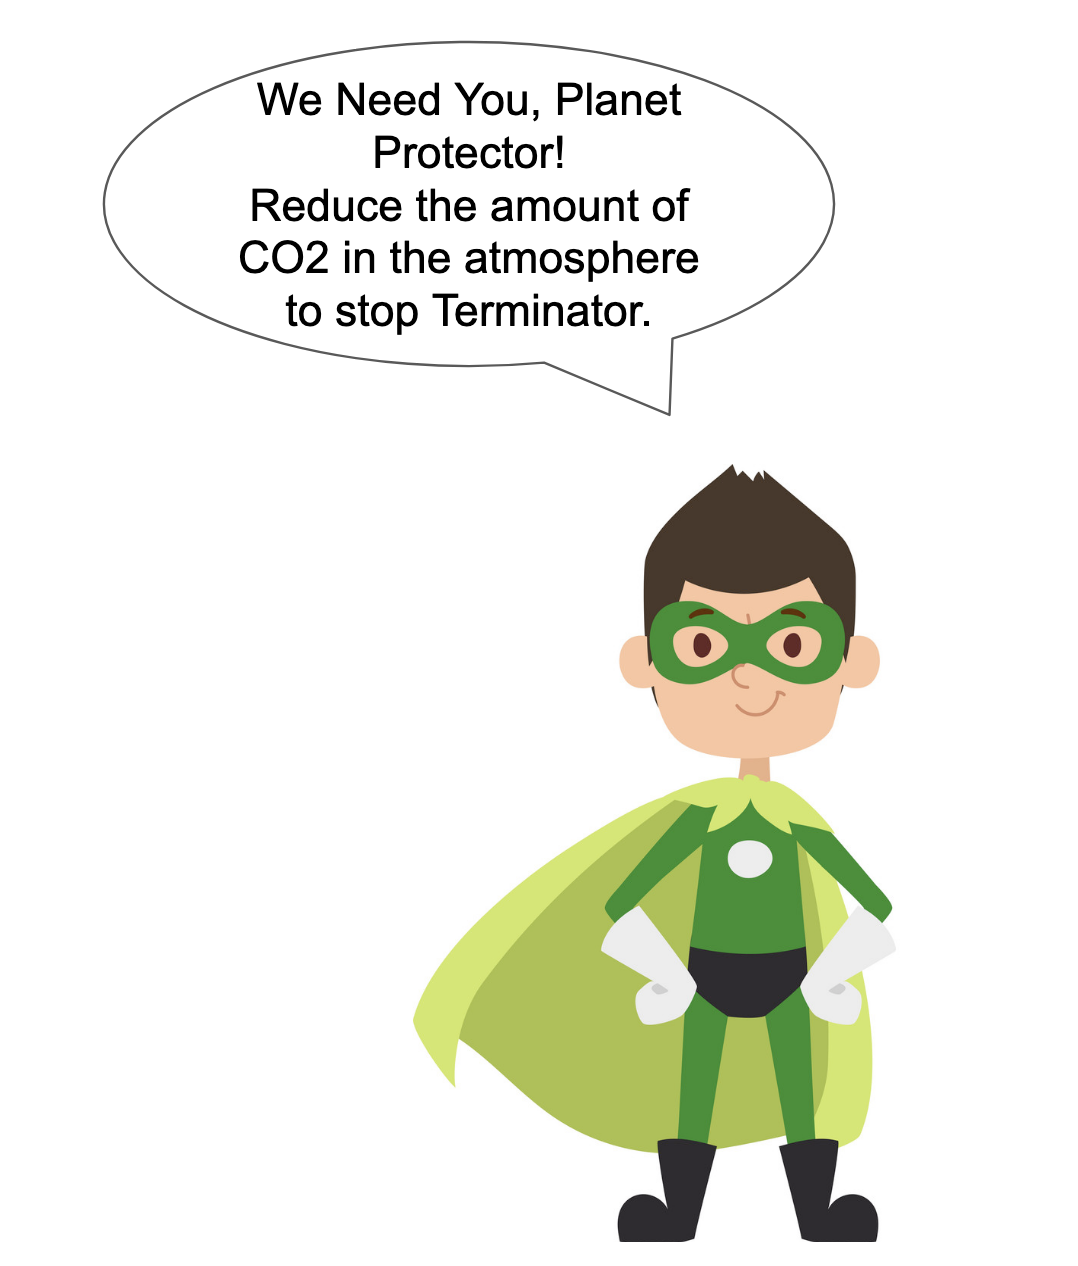
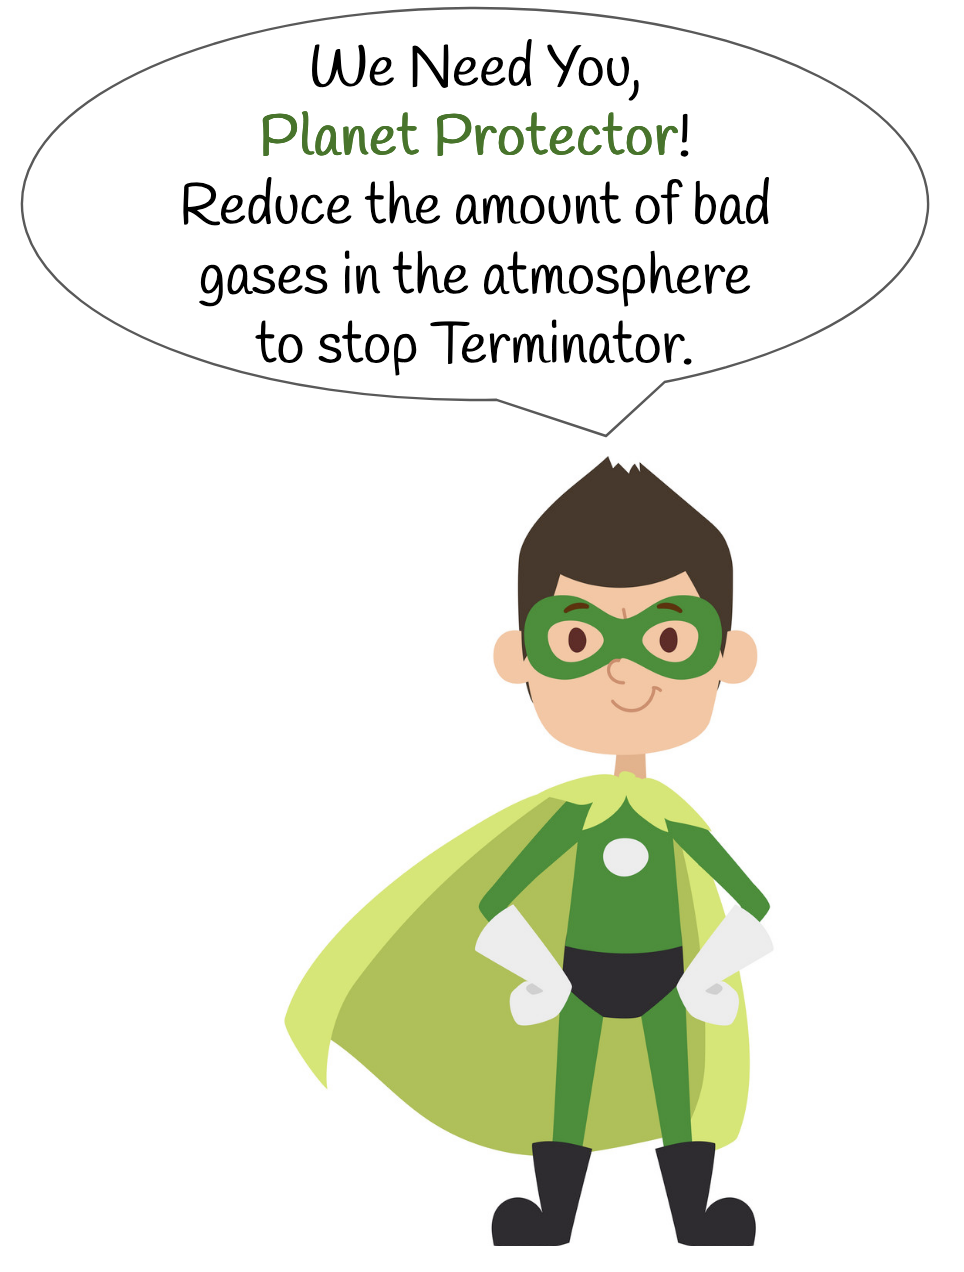
adjust protector and terminator

diff --git a/public/js/index.js b/public/js/index.js
@@ -9,6 +9,7 @@ function loadHomepage() {
   const contactInfo = document.getElementById("contact-info");
 
   mainContent.innerHTML = `
+  <h1 class="text-center">Planet Protector</h1>
   <div class="container">
   <div class="column">
       <!-- Content for the first column -->
@@ -20,11 +21,11 @@ function loadHomepage() {
 
   <div class="column">
       <!-- Content for the second column -->
-      <h1 class="text-center">Planet Protector</h1>
       <div class="container">
           <div class="row justify-content-center">
               <p>
-              The world is in DANGER!
+              The world is in 
+                <span id="danger">DANGER</span>!
               </p>
               <p>
               It need your help.
@@ -33,11 +34,12 @@ function loadHomepage() {
       </div>
   </div>
 
-  <div class="column">
+  <div class="column" id="term">
       <!-- Content for the third column -->
       <img
       src="./assets/terminator.png"
       alt="terminator"
+      id="terminator"
     />
   </div>
 </div>

diff --git a/public/css/homepage.css b/public/css/homepage.css
@@ -56,13 +56,36 @@ footer h3 {
   padding: 20px;
 }
 
-.container {
-  overflow: hidden; /* Ensure the image doesn't overflow the container */
-}
-
 .container img {
   max-width: 100%; /* Ensure image doesn't exceed container width */
   max-height: 100%; /* Ensure image doesn't exceed container height */
   display: block; /* Ensure proper display of the image */
   margin: auto; /* Center the image horizontally */
+}
+
+.container {
+  display: flex;
+  justify-content: center;
+  align-items: center;
+  flex-wrap: wrap;
+  margin-top: 20px;
+}
+.column {
+  flex: 1;
+  padding: 20px;
+  text-align: center;
+}
+img {
+  max-width: 100%;
+  height: auto;
+}
+#term {
+  padding: 0px;
+}
+
+#danger {
+  color: red;
+  font-family: "Frijole", system-ui;
+  font-weight: 400;
+  font-style: normal;
 }

diff --git a/public/index.html b/public/index.html
@@ -18,6 +18,12 @@
       integrity="sha384-T3c6CoIi6uLrA9TneNEoa7RxnatzjcDSCmG1MXxSR1GAsXEV/Dwwykc2MPK8M2HN"
       crossorigin="anonymous"
     />
+    <link rel="preconnect" href="https://fonts.googleapis.com" />
+    <link rel="preconnect" href="https://fonts.gstatic.com" crossorigin />
+    <link
+      href="https://fonts.googleapis.com/css2?family=Euphoria+Script&family=Frijole&family=Play&family=Quicksand&display=swap"
+      rel="stylesheet"
+    />
     <link rel="stylesheet" href="./css/global.css" />
     <link rel="stylesheet" href="./css/homepage.css" />
   </head>
